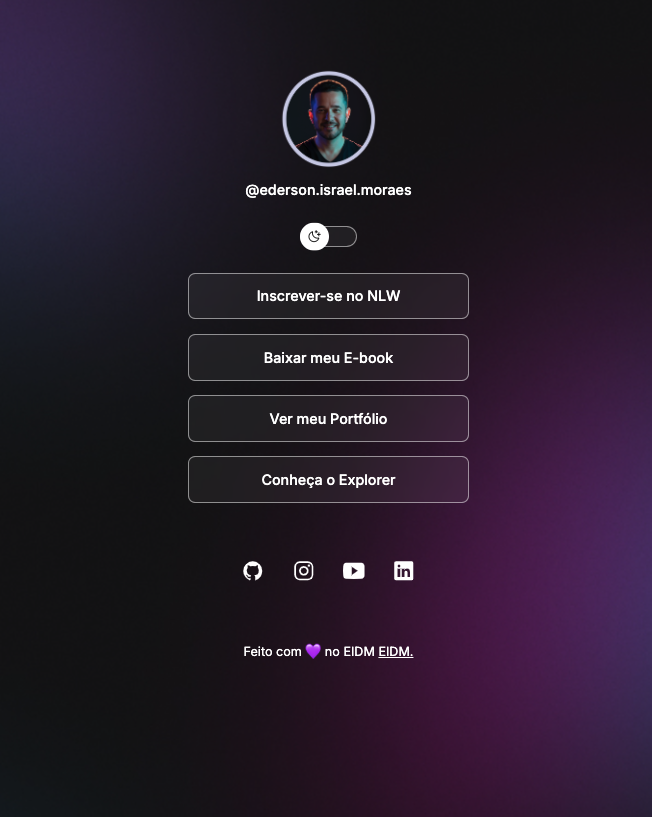
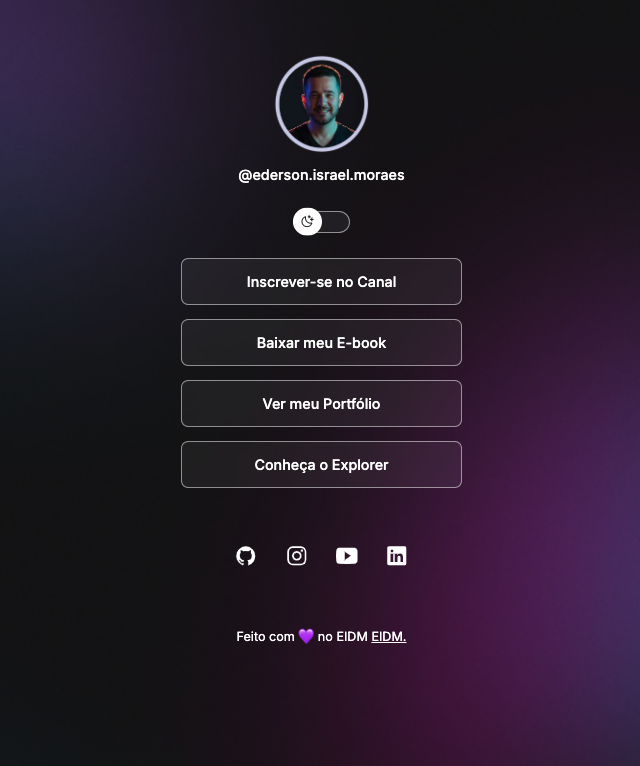
changes in README2

diff --git a/index.html b/index.html
@@ -24,7 +24,7 @@
         <span></span>
       </div>
       <ul>
-        <li><a href="#">Inscrever-se no NLW</a></li>
+        <li><a href="#">Inscrever-se no Canal</a></li>
         <li><a href="#">Baixar meu E-book</a></li>
         <li><a href="#">Ver meu Portfólio</a></li>
         <li><a href="#" target="_blank">Conheça o Explorer</a></li>

diff --git a/README.md b/README.md
@@ -45,4 +45,4 @@ Esse projeto está sob a licença MIT.
 
 ---
 
-Feito com ♥ by Ederson Moraes :wave: [Discord !](eder.israel.moraes)
+Feito com ♥ by Ederson Moraes :wave: Discord ! @eder.israel.moraes
